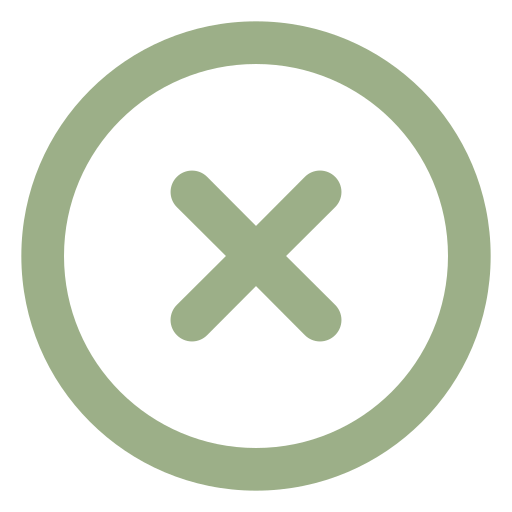
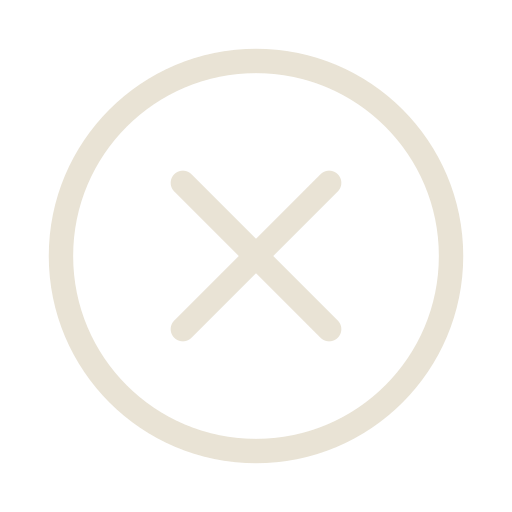
color done

diff --git a/src/app/components/Navigation.tsx b/src/app/components/Navigation.tsx
@@ -17,7 +17,7 @@ function Navigation() {
 
   return (
     <>
-      <div className="bg-[#070b13] py-4 px-3 md:px-5 shiny-border flex justify-between overflow-hidden text-[#9CAF88] nametitle text-2xl md:text-3xl items-center min-h-[75px] max-h-[75px]">
+      <div className="back py-4 px-3 md:px-5 shiny-border flex justify-between overflow-hidden colo nametitle text-2xl md:text-3xl items-center min-h-[75px] max-h-[75px]">
         <div className="">Arnav Arora</div>
         <div onClick={() => setmenu(!showmenu)} className="md:hidden cursor-pointer">
           <Image src={showmenu ? cross : menu} height={40} alt="menu" />
@@ -32,11 +32,11 @@ function Navigation() {
 
       {/* Full-Screen Menu */}
       {showmenu && (
-        <div className="fixed top-[200px] left-0 w-full  bg-[#070b13] text-[#9CAF88] flex flex-col items-center justify-center text-center text-2xl md:hidden">
-          <div className="flex flex-col gap-8 w-4/5 ">
+        <div className="fixed h-full top-[85px]  w-full  back colo flex flex-col items-center justify-center text-center text-2xl md:hidden">
+          <div className="flex flex-col mt-[-75px] gap-8 w-4/5 ">
             {links.map((link, index) => (
               <Link key={index} href={link.link} 
-              className="cursor-pointer  nametitle border-b-[1px] border-[#9CAF88] p-2 "
+              className="cursor-pointer  nametitle border-b-[1px] border-[#e9e3d5] p-2 "
                onClick={() => setmenu(false)}>
                 &lt;{link.name}/&gt;
               </Link>

diff --git a/src/app/components/Intro.tsx b/src/app/components/Intro.tsx
@@ -4,10 +4,11 @@ import React from "react";
 
 export default function Intro() {
   return (
-    <div className=" flex flex-col items-start justify-center  h mt-[0px] pl-5">
-      <div className="text-4xl lg:text-5xl  text-[#afafaf]  patlafont ">Hi, I am</div>
-      <div className={`nametitle tracking-[3px]  text-6xl lg:text-8xl text-[#9CAF88]`}>Arnav Arora</div>
-      <div className="job2 text-[#cfcaca] text-4xl md:text-5xl"> Software Engineer</div>
+    <div className=" flex flex-col items-start justify-center  h mt-[0px] pl-5 md:pl-14">
+      <div className="text-4xl text-[#afafaf]  patlafont ">Hi, I am</div>
+      <div className={`nametitle md:tracking-[6px]  text-6xl lg:text-8xl colo`}>Arnav Arora</div>
+      <div className="job2 text-[#b6b2b2] text-4xl ">Computer Science Undergraduate </div>
     </div>
   );
 }
+/* #9CAF88 */

diff --git a/src/app/globals.css b/src/app/globals.css
@@ -29,23 +29,24 @@
     font-weight: 400;
     font-style: normal;
   }
-  .job {
-    font-family: "Arsenal SC", sans-serif;
-    font-weight: 400;
-    font-style: normal;
-  }
 
   .job2 {
     font-family: "Lexend", sans-serif;
     font-optical-sizing: auto;
-    font-weight: 400;
+    font-weight: 200;
     font-style: normal;
   }
   .shiny-border {
     display: flex;
     justify-content: space-between;
-    color: #9CAF88;
-    border-bottom: 1px solid #9CAF88;
-    box-shadow: 0 0 5px #9CAF88, 0 0 5px #9CAF88, 0 0 10px #9CAF88, 0 0 15px #9CAF88;
+    color: #e9e3d5;
+    border-bottom: 1px solid #e9e3d5;
+    box-shadow: 0 0 3px #e9e3d5, 0 0 4px #e9e3d5, 0 0 5px #e9e3d5, 0 0 7px #e9e3d5;
 }
+.back{
+ background-color: #01141b;
 
+}
+.colo{
+  color: #e9e3d5;
+}

diff --git a/src/app/not-found.tsx b/src/app/not-found.tsx
@@ -3,7 +3,7 @@ import notfound from "../../public/notfound.png";
 import Image from "next/image";
 export default function NotFound() {
   return (
-    <div className="text-[#9CAF88] flex flex-col items-center justify-center h-full ">
+    <div className="text-[#e9e3d5] flex flex-col items-center justify-center h ">
       <Image src={notfound} alt="not-found" height={300} />
       <Link className="text-3xl text-purple-800 nametitle" href="/">
         return <span className="text-emerald-500">&lt;Home/&gt;</span><span className="text-white">;</span>

diff --git a/src/app/loading.tsx b/src/app/loading.tsx
@@ -7,5 +7,5 @@ const cookie = Cookie({
 
 export default function Loading() {
 
-  return <p className={`${cookie.className} text-[#9CAF88] text-5xl h-screen m-auto text-center flex items-center justify-center `}>Loading...</p>
+  return <p className={`${cookie.className} text-[#e9e3d5] text-5xl h-screen m-auto text-center flex items-center justify-center `}>Loading...</p>
 }

diff --git a/src/app/layout.tsx b/src/app/layout.tsx
@@ -18,7 +18,7 @@ export default function RootLayout({
 }>) {
   return (
     <html lang="en">
-      <body className={`${inter.className}  relative  bg-[#070b13]`}>
+      <body className={`${inter.className}  relative back`}>
       <div className="fixed top-0 w-full z-50">
         <Navigation />
       </div>
